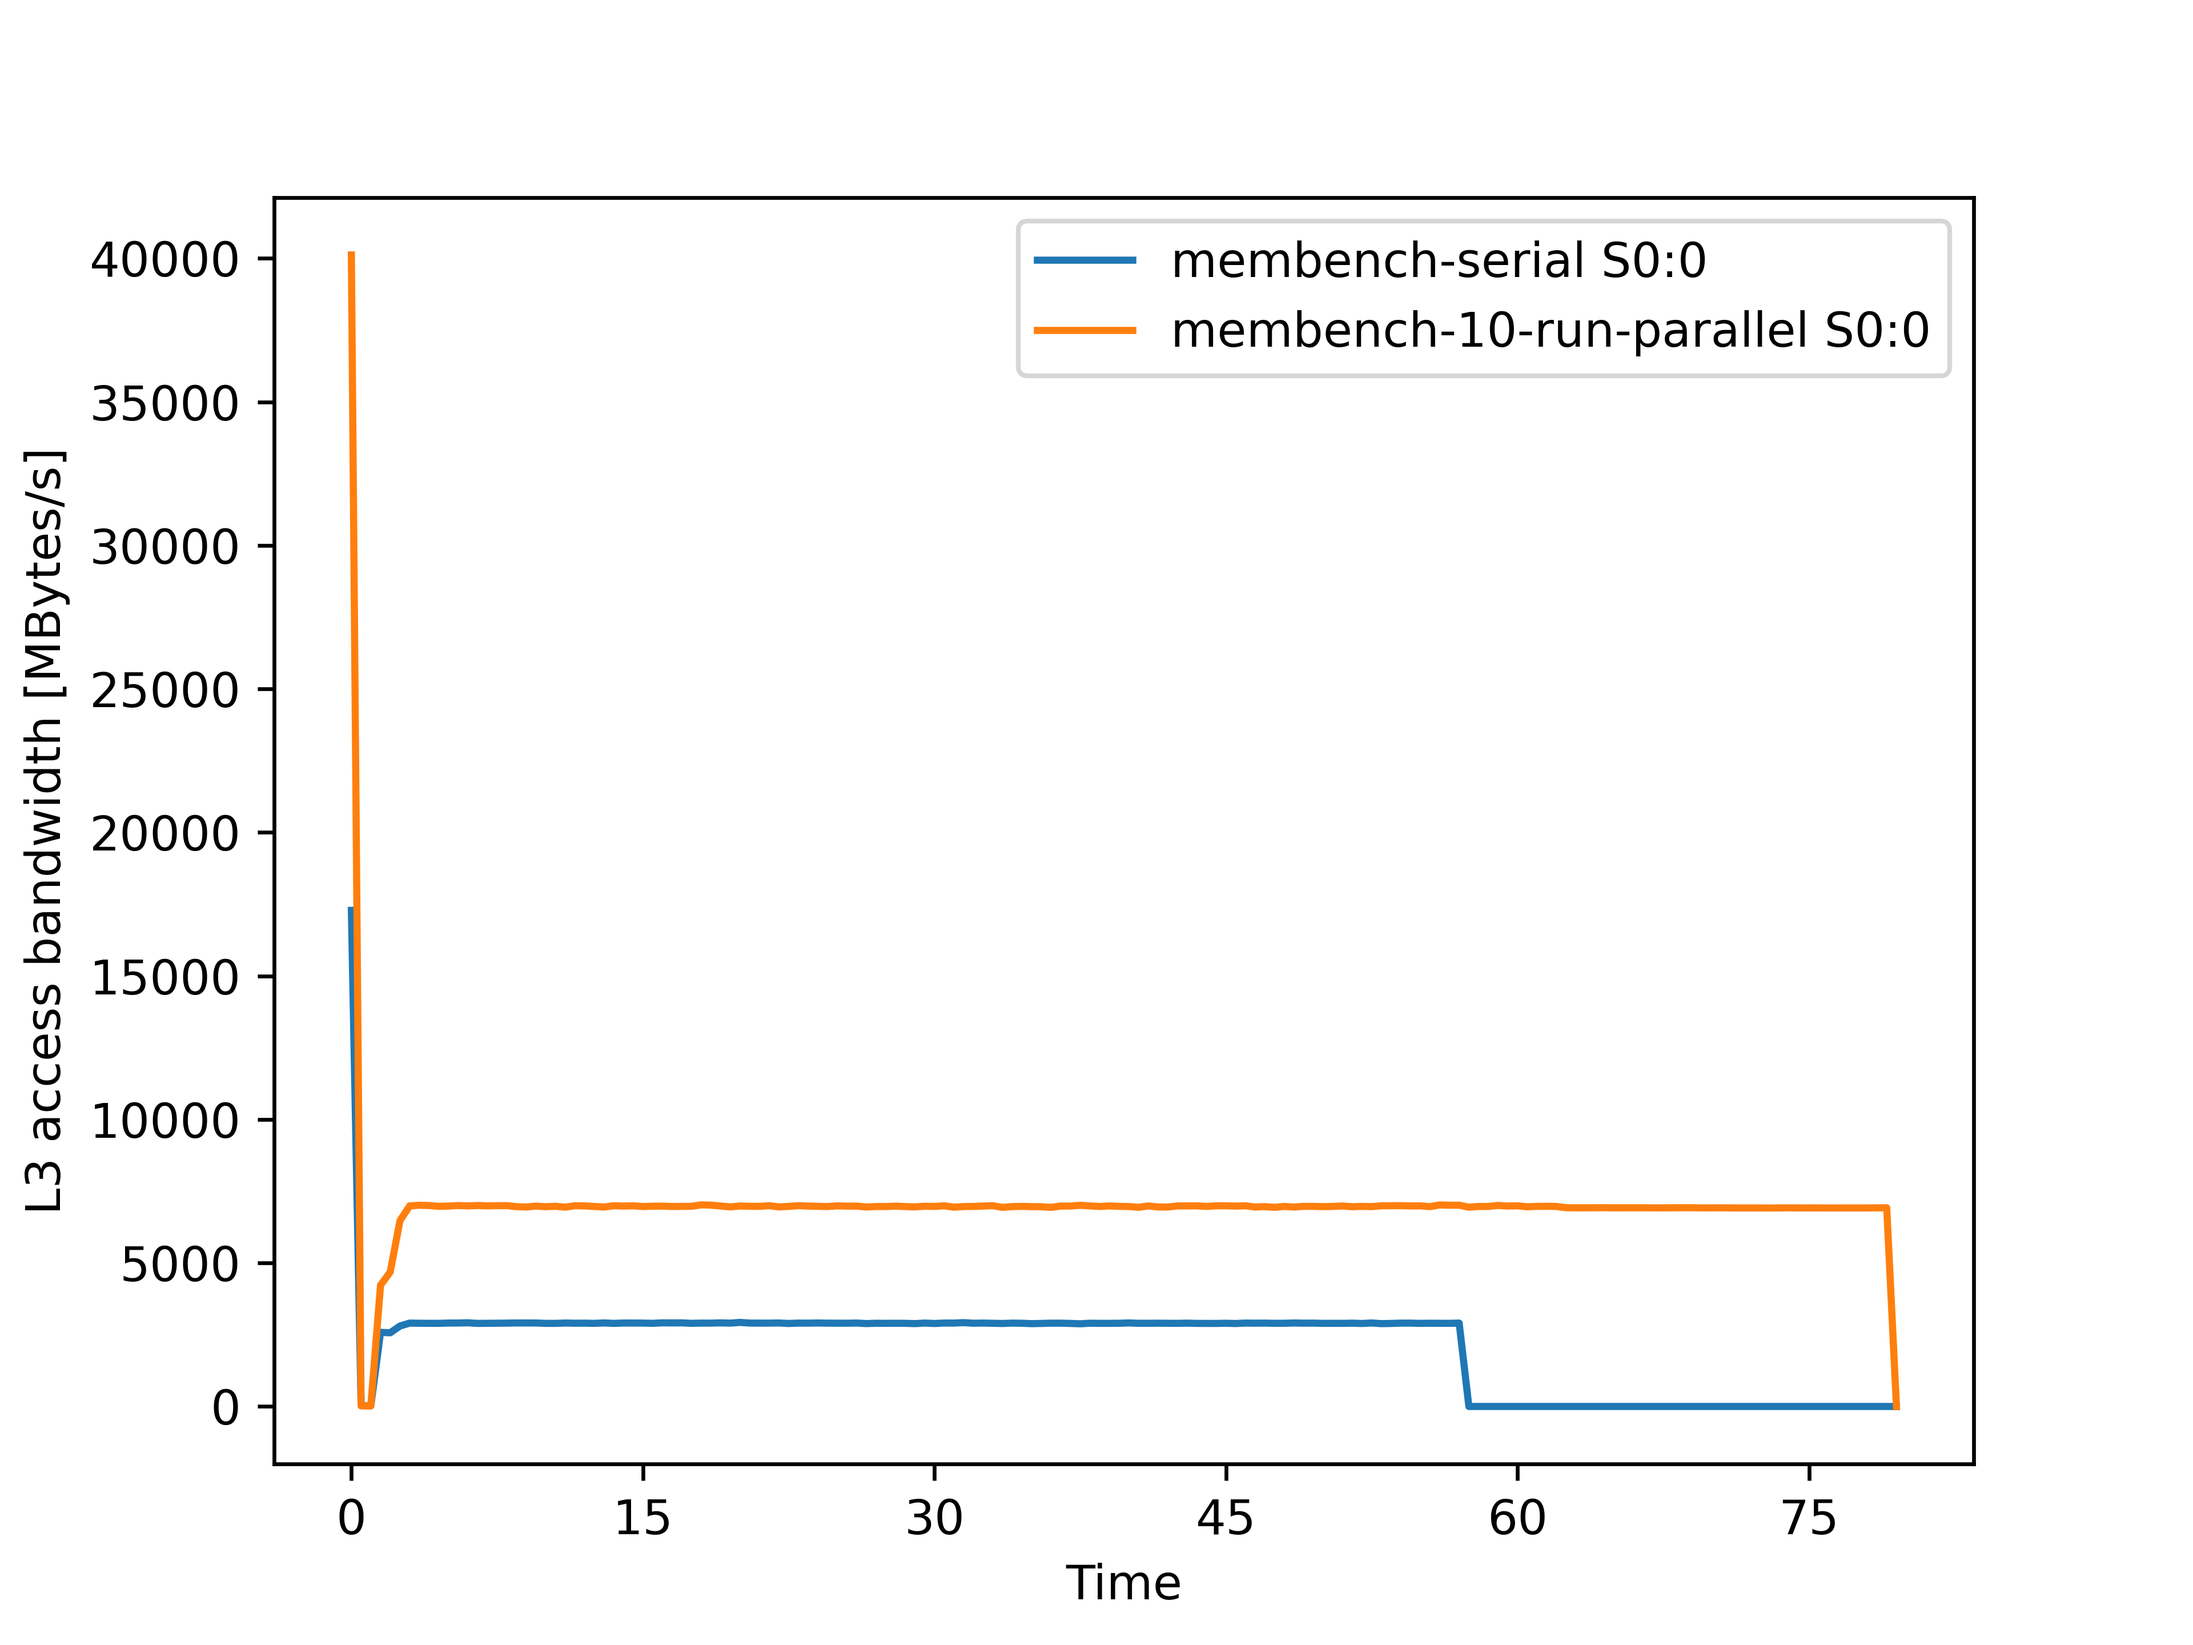
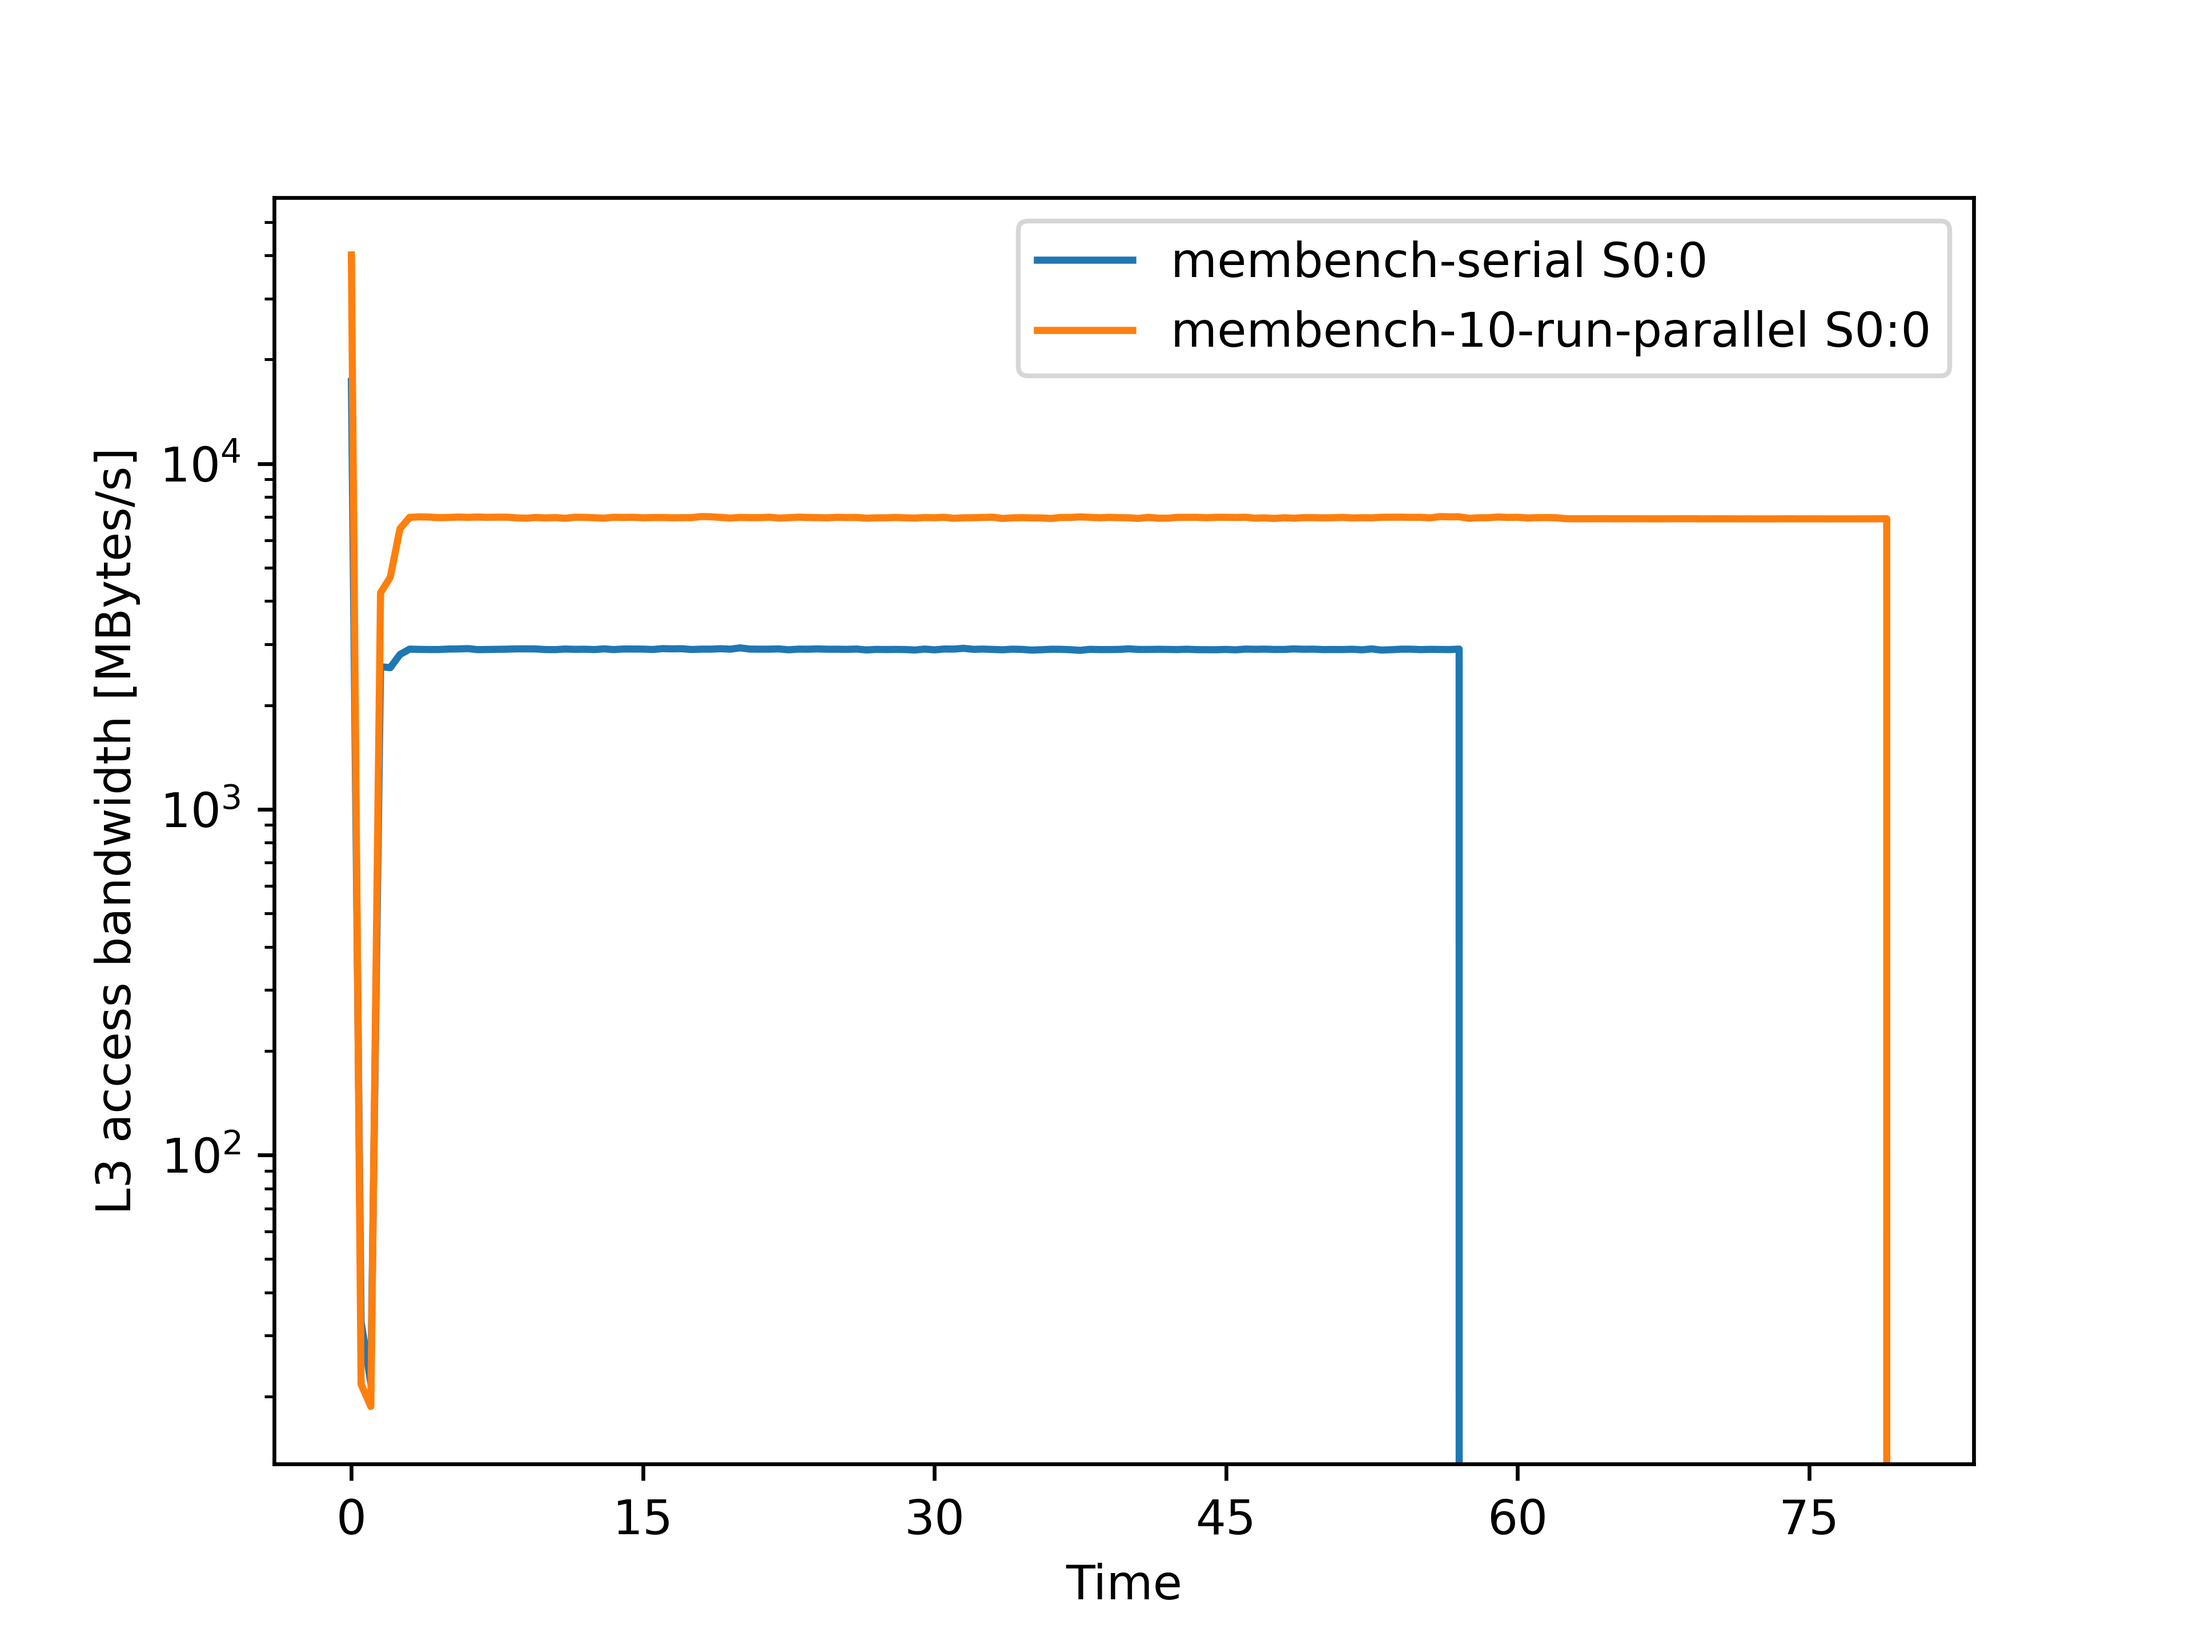
semilogy

diff --git a/test2_parallel/dxt_src/plot_test.py b/test2_parallel/dxt_src/plot_test.py
@@ -66,7 +66,7 @@ def get_data_timeline(out_path,err_path):
 
 
     f.close()
-    # print(bandwith_list)c
+    # print(bandwith_list)
     return time_line,bandwith_list
 
 
@@ -81,7 +81,8 @@ for i in range(0,len(out_files)):
     time_line_parallel0, bandwith_list_parallel0 = get_data_timeline(mypath_out+out_files[i],mypath_err+err_files[i])
     time_line_parallel.append(time_line_parallel0)
     bandwith_list_parallel.append(bandwith_list_parallel0)
-    
+
+# print(bandwith_list_parallel[0])
 # print(time_line_parallel)
 max_len_timeline=0
 max_timeline=[]
@@ -92,7 +93,7 @@ for time_line in time_line_parallel:
 
 
 expand_serial=np.append(bandwith_list_serial,np.zeros(max_len_timeline-len(bandwith_list_serial)) ) 
-print(max_len_timeline)
+# print(max_len_timeline)
 expand_parallel=[]
 for bandwith in  bandwith_list_parallel:
     expand_parallel.append(np.append( bandwith ,np.zeros(max_len_timeline-len(bandwith)) )) 
@@ -106,10 +107,10 @@ plt.ylabel(TEST+" bandwidth [MBytes/s]")
 plt.xlabel("Time")
 # plt.yscale('log')
 
-plt.plot(max_timeline, expand_serial, label="Serial- S0:Core0")
+plt.semilogy(max_timeline, expand_serial, label="Serial- S0:Core0")
 for i in range(0,len(expand_parallel)):
-    print(len(expand_parallel[i]))
-    plt.plot(max_timeline, expand_parallel[i], label="S0:Core"+str(i))
+    # print(len(expand_parallel[i]))
+    plt.semilogy(max_timeline, expand_parallel[i], label="S0:Core"+str(i))
 # plt.plot(time_line_parallel2, expand_parallel2, label="membench-10-run-paralle")
 plt.xticks(np.arange(min(max_timeline), max(max_timeline)+1, 20))
 plt.legend()

diff --git a/test1_parallel/dxt_src/plot_test.py b/test1_parallel/dxt_src/plot_test.py
@@ -4,8 +4,8 @@ import sys
 
 from numpy.lib.function_base import append
 
-# TEST="MEM"
-TEST="L3"
+TEST="MEM"
+# TEST="L3"
 
 
 def RepresentsInt(s):
@@ -83,8 +83,8 @@ expand_parallel1=np.append(bandwith_list_parallel1,np.zeros(len(time_line_parall
 plt.ylabel(TEST+" access bandwidth [MBytes/s]")
 plt.xlabel("Time")
 # plt.yscale('log')
-plt.plot(time_line_parallel1, expand_serial, label="membench-serial S0:0")
-plt.plot(time_line_parallel1, expand_parallel1, label="membench-10-run-parallel S0:0")
+plt.semilogy(time_line_parallel1, expand_serial, label="membench-serial S0:0")
+plt.semilogy(time_line_parallel1, expand_parallel1, label="membench-10-run-parallel S0:0")
 # plt.plot(time_line_parallel2, expand_parallel2, label="membench-10-run-paralle")
 plt.xticks(np.arange(min(time_line_parallel1), max(time_line_parallel1)+1, 15))
 plt.legend()
